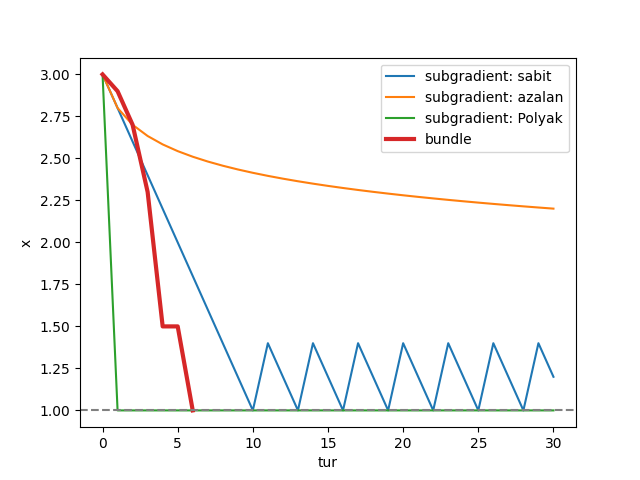
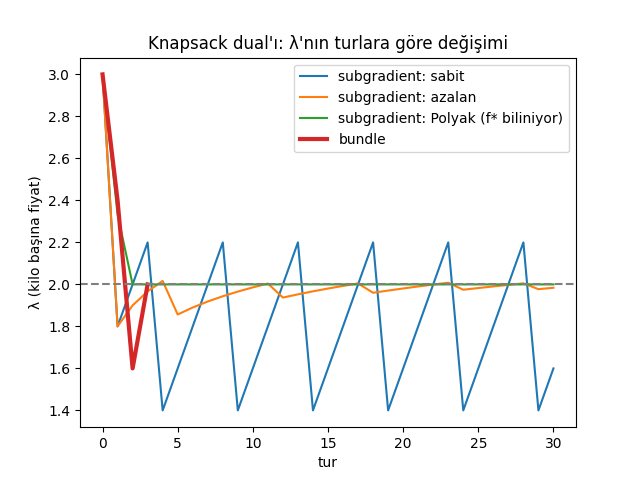
Separate algorithm from problem; add knapsack Lagrangian dual

diff --git a/bundle.py b/bundle.py
@@ -1,32 +1,16 @@
 # Mini bundle method (tek boyutlu)
-# Köşeli bir fonksiyonun minimumunu, kesileri biriktirip
-# "model + tasma" problemini kendi aktif-küme çözücümüzle çözerek bulur.
+# Herhangi bir köşeli, dışbükey fonksiyonun minimumunu bulur.
+# Fonksiyonun kendisi DIŞARIDAN verilir: f ve subgradient parametre olarak gelir.
+# Bu dosyada hiçbir problem yok, sadece algoritma var.
 
 
 # ─────────────────────────────────────────────
-# 1) Problem: minimumunu aradığımız fonksiyon
+# 1) Kesiler ve model (harita)
 # ─────────────────────────────────────────────
 
-def f(x):
-    # Köşeli fonksiyon: x = 1'de kırılma var. Minimum noktası x = 1, değeri -1.
-    return max(-2 * x + 1, x - 2)
-
-
-def subgradient(x):
-    # Köşenin hangi tarafındayım? O taraftaki doğrunun eğimini döndür.
-    # Tam köşede (x = 1) alt diferansiyel [-2, 1]; içinden -2'yi seçiyoruz.
-    if x <= 1:
-        return -2   # sol taraf: -2x + 1
-    else:
-        return 1    # sağ taraf: x - 2
-
-
-# ─────────────────────────────────────────────
-# 2) Kesiler ve model (harita)
-# ─────────────────────────────────────────────
-
-def kesi_yap(xi):
+def kesi_yap(xi, f, subgradient):
     # x = xi noktasında ölçüm yap, üç sayıyı paketle: (nokta, değer, eğim)
+    # Hangi fonksiyonu ölçeceğini (f, subgradient) dışarıdan alıyor.
     return (xi, f(xi), subgradient(xi))
 
 
@@ -44,8 +28,9 @@ def model(demet, x):
 
 
 # ─────────────────────────────────────────────
-# 3) Master problem: "bir sonraki nereye gideyim?"
+# 2) Master problem: "bir sonraki nereye gideyim?"
 #    küçült: model(x) + (x - merkez)^2 / (2t)
+#    Not: bu kısım gerçek f'yi HİÇ görmüyor, sadece demetteki kesileri görüyor.
 # ─────────────────────────────────────────────
 
 def yeni_nokta_aktif(demet, merkez, t):
@@ -96,11 +81,18 @@ def yeni_nokta_grid(demet, merkez, t):
     return en_iyi_x
 
 
-def bundle_calistir(baslangic_merkez, baslangic_t, max_tur):
+# ─────────────────────────────────────────────
+# 3) Ana algoritma
+# ─────────────────────────────────────────────
+
+def bundle_calistir(f, subgradient, baslangic_merkez, baslangic_t, max_tur, yazdir=True):
+    # f, subgradient: minimumu aranan fonksiyon ve onun eğimi (dışarıdan)
+    # Döndürdüğü: her turdaki merkezlerin listesi (son eleman = bulunan minimum)
     merkez = baslangic_merkez
     t = baslangic_t
-    demet = [kesi_yap(merkez)]   # hiç kesi olmadan model olmaz: ilk ölçüm
+    demet = [kesi_yap(merkez, f, subgradient)]   # ilk ölçüm
     gecmis = [merkez]
+
     for i in range(max_tur):
         # ADAY: haritaya ve tasmaya bakarak bir sonraki noktayı öner
         x = yeni_nokta_aktif(demet, merkez, t)
@@ -108,30 +100,26 @@ def bundle_calistir(baslangic_merkez, baslangic_t, max_tur):
         # DUR MU?: harita (iyimser olduğu halde) iyileşme vaat etmiyorsa dur
         vaat = f(merkez) - model(demet, x)
         if vaat < 0.000001:
-            print(f"\n--> Algoritma durdu! Tur: {i}, Merkez: {merkez}")
+            if yazdir:
+                print(f"--> Algoritma durdu! Tur: {i}, Merkez: {merkez}")
             break
 
         # ÖLÇ: adaya git, gerçek değeri ve eğimi ölç, deftere ekle
-        demet.append(kesi_yap(x))
+        demet.append(kesi_yap(x, f, subgradient))
 
         # KARAR: aday gerçekten daha alçak mı?
         if f(x) < f(merkez):
             # Serious step: taşın, harita güvenilir çıktı -> tasmayı uzat
             merkez = x
             t = t * 2
-            print(f"Tur {i:2d} | x: {x:.4f} | t: {t} | Karar: SERIOUS (Taşındı)")
-            gecmis.append(merkez)
+            karar = "SERIOUS (Taşındı)"
         else:
             # Null step: yerinde kal, harita yanıldı -> tasmayı kısalt
             t = t / 2
-            print(f"Tur {i:2d} | x: {x:.4f} | t: {t} | Karar: NULL (Sabit kaldı)")
-            gecmis.append(merkez)
+            karar = "NULL (Sabit kaldı)"
+
+        gecmis.append(merkez)
+        if yazdir:
+            print(f"Tur {i:2d} | x: {x:.4f} | t: {t} | Karar: {karar}")
 
     return gecmis
-
-
-if __name__ == "__main__":
-    print("Algoritma Başlıyor...\n" + "-" * 45)
-    sonuc = bundle_calistir(3, 0.1, 30)
-    print("-" * 45)
-    print("Bulunan minimum noktası:", sonuc[-1])

diff --git a/karsilastirma.py b/karsilastirma.py
@@ -1,36 +1,22 @@
-from bundle import f, subgradient, bundle_calistir
+# Knapsack dual'ında: Proje 1'in subgradient yöntemleri vs bundle method
 import matplotlib.pyplot as plt
-def f(x):
-    return max(-2 * x + 1, x - 2)
+from bundle import bundle_calistir
+from knapsack import f, subgradient
+
+F_YILDIZ = 14   # dual'ın minimum değeri (Polyak bunu bilmek zorunda)
 
 
-def subgradient(x):
-    if x > 1:       # köşenin sağındaysam
-        return 1    # sağdaki doğrunun eğimi
-    elif x < 1:     # köşenin solundaysam
-        return -2   # soldaki doğrunun eğimi
-    else:           # tam köşedeysem
-        return 0    # alt diferansiyelden [-2, 1] bir sayı seç
-
-
-# --- adım kuralları ---
-
+# ─── Proje 1'den: adım kuralları ve subgradient döngüsü ───
 def step_constant(x):
     return 0.2
-
 
 def step_diminishing(k):
     return 0.2 / (k + 1)
 
-
 def step_polyak(x, g, fstar):
-    if g == 0:      # sıfıra bölmeyi engelle (köşedeysek dur)
+    if g == 0:
         return 0
-    else:
-        return (f(x) - fstar) / (g ** 2)
-
-
-# --- algoritma ---
+    return (f(x) - fstar) / (g ** 2)
 
 def calistir(kural, x0, adim_sayisi):
     x = x0
@@ -42,31 +28,26 @@ def calistir(kural, x0, adim_sayisi):
         elif kural == "azalan":
             alpha = step_diminishing(k)
         elif kural == "polyak":
-            alpha = step_polyak(x, g, -1)  # fstar = -1
+            alpha = step_polyak(x, g, F_YILDIZ)
         x = x - alpha * g
         gecmis.append(x)
     return gecmis
 
 
-# --- testler ---
-
-assert f(2) == 0
-assert f(0) == 1
-assert f(1) == -1
-assert subgradient(0.5) == -2, "köşenin solunda eğim -2 olmalı"
-assert subgradient(2) == 1, "köşenin sağında eğim 1 olmalı"
-
+# ─── Karşılaştırma ───
 x0 = 3
 adim = 30
 
 plt.plot(calistir("sabit",  x0, adim), label="subgradient: sabit")
 plt.plot(calistir("azalan", x0, adim), label="subgradient: azalan")
-plt.plot(calistir("polyak", x0, adim), label="subgradient: Polyak")
-plt.plot(bundle_calistir(x0, 0.1, adim), label="bundle", linewidth=3)
+plt.plot(calistir("polyak", x0, adim), label="subgradient: Polyak (f* biliniyor)")
+plt.plot(bundle_calistir(f, subgradient, x0, 0.1, adim, yazdir=False),
+         label="bundle", linewidth=3)
 
-plt.axhline(1, color="gray", linestyle="--")
+plt.axhline(2, color="gray", linestyle="--")
 plt.xlabel("tur")
-plt.ylabel("x")
+plt.ylabel("λ (kilo başına fiyat)")
+plt.title("Knapsack dual'ı: λ'nın turlara göre değişimi")
 plt.legend()
 plt.savefig("karsilastirma.png")
 plt.show()

diff --git a/test_bundle.py b/test_bundle.py
@@ -1,22 +1,50 @@
 from bundle import bundle_calistir, kesi_yap, yeni_nokta_grid, yeni_nokta_aktif
+import knapsack
+
+
+# ─── Test için oyuncak fonksiyon: köşe x = 1'de, minimum değeri -1 ───
+def oyuncak_f(x):
+    return max(-2 * x + 1, x - 2)
+
+def oyuncak_subgradient(x):
+    if x <= 1:
+        return -2
+    else:
+        return 1
 
 
 def test_kink_minimum_bulma():
-    # Algoritma köşeli fonksiyonun minimumunu (x = 1) bulmalı
-    sonuc = bundle_calistir(3, 0.1, 30)
-    assert abs(sonuc[-1] - 1) < 0.001
+    # Algoritma oyuncak fonksiyonun minimumunu (x = 1) bulmalı
+    gecmis = bundle_calistir(oyuncak_f, oyuncak_subgradient, 3, 0.1, 30, yazdir=False)
+    assert abs(gecmis[-1] - 1) < 0.001
 
 
 def test_tek_kesi_subgradient_adimi():
     # Tek kesiyle aday, Proje 1'deki adımla aynı olmalı: merkez - t * eğim
-    demet = [kesi_yap(3)]          # eğim 1
+    demet = [kesi_yap(3, oyuncak_f, oyuncak_subgradient)]   # eğim 1
     assert yeni_nokta_aktif(demet, 3, 1) == 2
 
 
 def test_grid_aktif():
     # Hakem testi: kendi çözücümüz, grid ile aynı aday noktayı bulmalı
-    demet = [kesi_yap(3), kesi_yap(-1), kesi_yap(0.5)]
-    merkez = 0.5
-    t = 1
-    fark = yeni_nokta_grid(demet, merkez, t) - yeni_nokta_aktif(demet, merkez, t)
+    demet = [kesi_yap(x, oyuncak_f, oyuncak_subgradient) for x in [3, -1, 0.5]]
+    fark = yeni_nokta_grid(demet, 0.5, 1) - yeni_nokta_aktif(demet, 0.5, 1)
     assert abs(fark) < 0.01
+
+
+def test_knapsack_dual_kagit_degerleri():
+    # Kâğıtta elle hesapladığımız değerler
+    assert knapsack.f(0) == 20
+    assert knapsack.f(1) == 15
+    assert knapsack.f(2) == 14
+    assert knapsack.subgradient(1.5) == -1
+    assert knapsack.subgradient(2.5) == 4
+
+
+def test_knapsack_dual_minimumu():
+    # Bundle, dual'ın dibini λ = 2'de bulmalı; üst sınır 14 ve gerçek değerin (10) üstünde
+    gecmis = bundle_calistir(knapsack.f, knapsack.subgradient, 3, 0.1, 30, yazdir=False)
+    lam = gecmis[-1]
+    assert abs(lam - 2) < 0.001
+    assert abs(knapsack.f(lam) - 14) < 0.001
+    assert knapsack.f(lam) >= 10   # zayıf dualite

diff --git a/knapsack.py b/knapsack.py
@@ -1,0 +1,39 @@
+from bundle import bundle_calistir
+ 
+degerler   = [6, 10, 4]
+agirliklar = [2, 5, 4]
+kapasite   = 6
+ 
+ 
+def f(x):
+    # Dual fonksiyon L(λ): her eşyanın net kazancı (pozitifse) + kira hakkı
+    toplam = 0
+    for i in range(len(degerler)):
+        deger = degerler[i]
+        agirlik = agirliklar[i]
+        toplam = toplam + max(0, deger - agirlik * x)
+    toplam = toplam + kapasite * x
+    return toplam
+ 
+ 
+def subgradient(x):
+    # Eğim = kapasite - (net kazancı pozitif olan eşyaların toplam ağırlığı)
+    # Negatif: çanta taşıyor, fiyat artmalı. Pozitif: çanta boş kalıyor, fiyat düşmeli.
+    kullanilan = 0
+    for i in range(len(degerler)):
+        deger = degerler[i]
+        agirlik = agirliklar[i]
+        if deger - agirlik * x > 0:
+            kullanilan = kullanilan + agirlik
+    return kapasite - kullanilan
+ 
+ 
+if __name__ == "__main__":
+    print("Knapsack dual'ı, bundle method ile")
+    print("-" * 45)
+    gecmis = bundle_calistir(f, subgradient, 3, 0.1, 30)
+    lam = gecmis[-1]
+    print("-" * 45)
+    print(f"En iyi fiyat λ = {lam}")
+    print(f"Üst sınır L(λ) = {f(lam)}   (gerçek en iyi değer: 10)")
+ 
